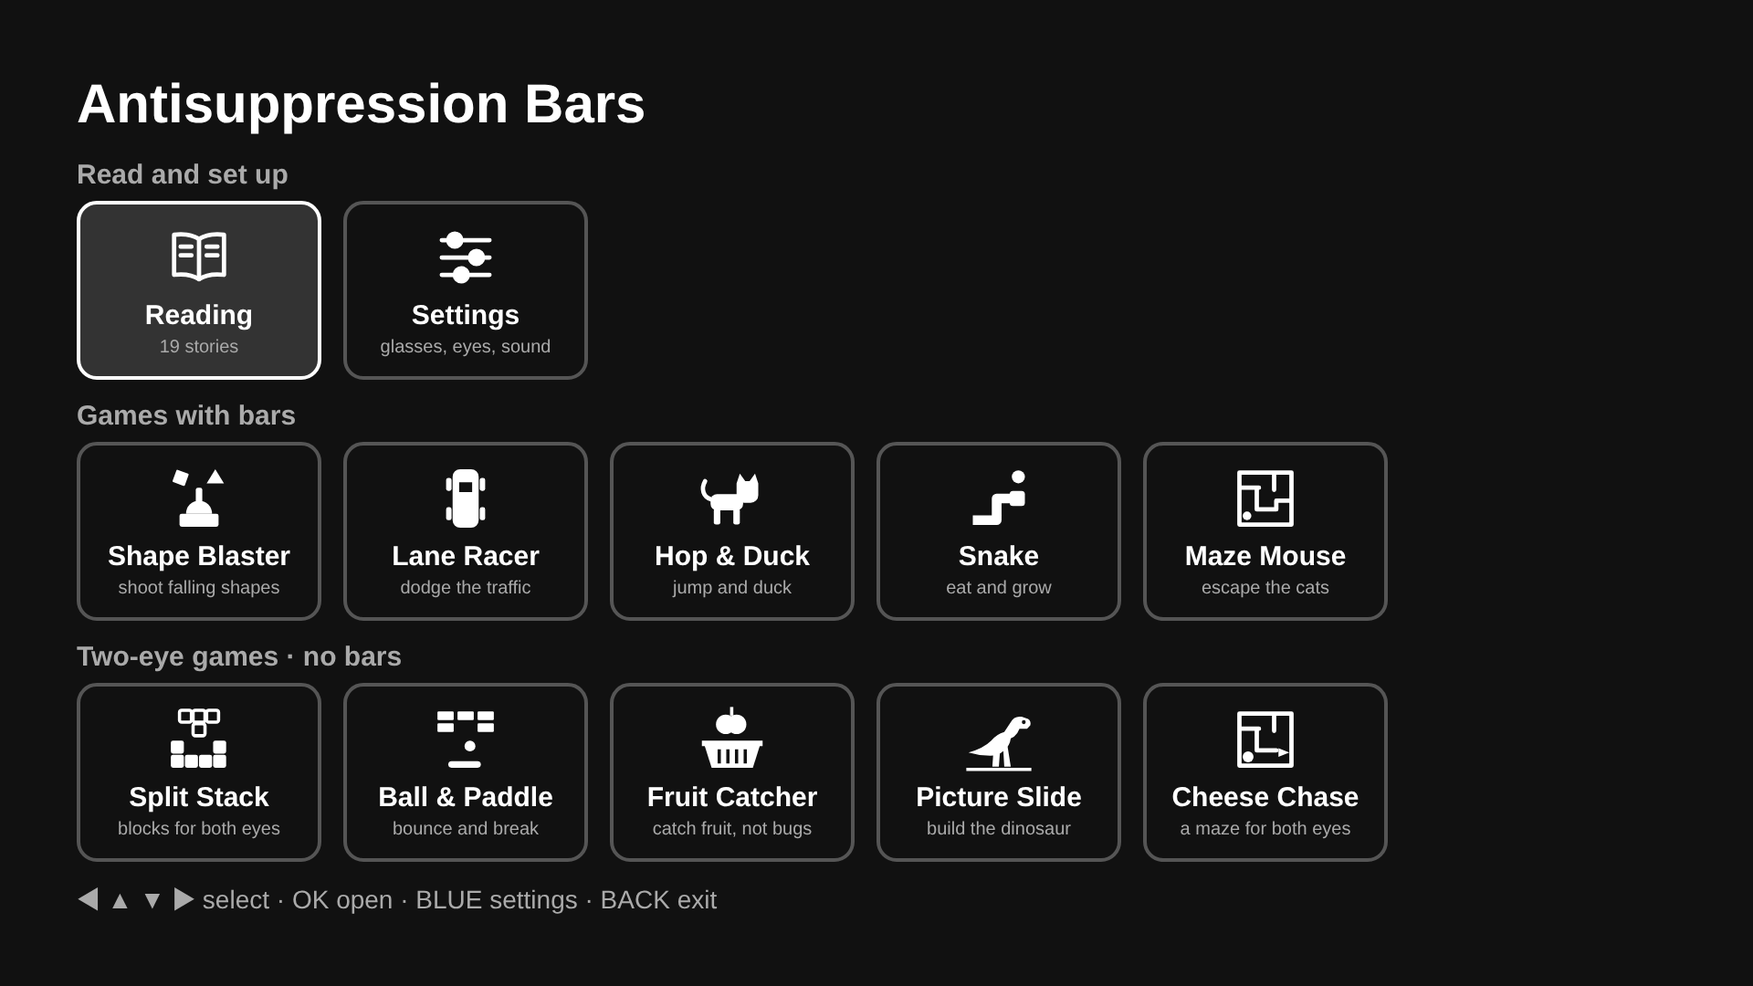
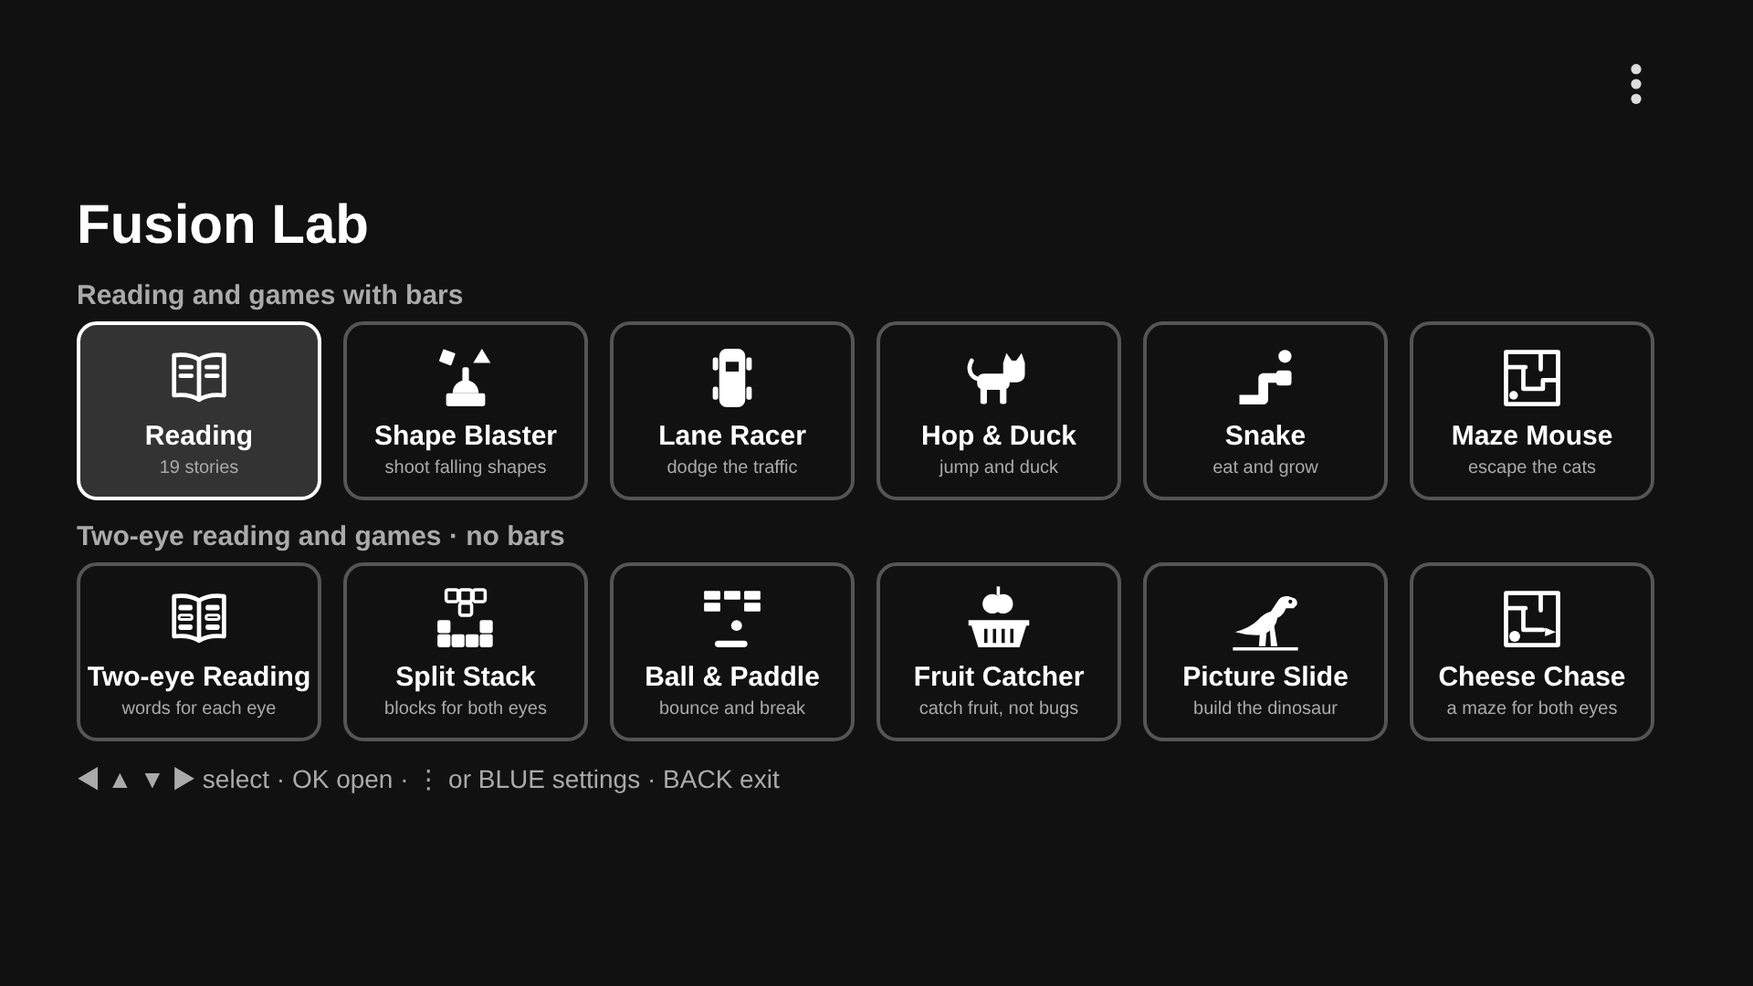
Rename to Fusion Lab; two-row menu with Two-eye Reading; settings behind a ⋮ button
- Reading moves into the 'with bars' row; a new Two-eye Reading (no bars) shows each
  word in the weaker or stronger eye's colour from Settings, taking turns
- Settings tile replaced by a ⋮ button at the top right (▲ from the first row, OK, or click)
- App title, splash and docs renamed to Fusion Lab (app ID unchanged)

Claude-Session: https://claude.ai/code/session_019DAwnqKTqvFo8n4B8RvvjZ

diff --git a/js/app.js b/js/app.js
@@ -16,21 +16,26 @@
   var disclaimer = $('disclaimer'), menuEl = $('menu'), menuList = $('menu-list');
   var reader = $('reader'), canvas = $('game'), gameHint = $('game-hint'), calibEl = $('calib'), libraryEl = $('library');
 
-  // Home menu in three groups: reading & settings, games with bars, two-eye games (no bars)
+  // Home menu in two rows: reading and games with bars; two-eye reading and games (no bars).
+  // Settings opens from the ⋮ button at the top right (menuFocus = SETTINGS_FOCUS).
   var BAR_GAMES = [Blaster, Racer, Runner, Snake, Maze];
   var EYE_GAMES = [SplitStack, Paddle, Fruit, Slide, CheeseChase];
   function gameItem(g) {
     return { label: g.title, icon: MENU_ART[g.id].icon, sub: MENU_ART[g.id].tag, action: function () { startGame(g); } };
   }
   var MENU = [
-    { label: 'Reading', icon: MENU_ART.reading.icon, sub: STORIES.length + ' stories', action: function () { openLibrary(); } },
-    { label: 'Settings', icon: MENU_ART.settings.icon, sub: MENU_ART.settings.tag, action: function () { openPanel(); } }
-  ].concat(BAR_GAMES.map(gameItem), EYE_GAMES.map(gameItem));
+    { label: 'Reading', icon: MENU_ART.reading.icon, sub: STORIES.length + ' stories', action: function () { openLibrary('bars'); } }
+  ].concat(BAR_GAMES.map(gameItem), [
+    { label: 'Two-eye Reading', icon: MENU_ART.reading2.icon, sub: MENU_ART.reading2.tag, action: function () { openLibrary('eyes'); } }
+  ], EYE_GAMES.map(gameItem));
   var MENU_ROWS = [
-    { title: 'Read and set up', items: [0, 1] },
-    { title: 'Games with bars', items: [2, 3, 4, 5, 6] },
-    { title: 'Two-eye games · no bars', items: [7, 8, 9, 10, 11] }
+    { title: 'Reading and games with bars', items: [0, 1, 2, 3, 4, 5] },
+    { title: 'Two-eye reading and games · no bars', items: [6, 7, 8, 9, 10, 11] }
   ];
+  var SETTINGS_FOCUS = -1, lastCol = 0;
+  var moreBtn = $('menu-more');
+  // Reading mode: 'bars' (white text under the bars) or 'eyes' (no bars; each word in one eye's colour)
+  var readingMode = 'bars';
   function menuRowOf(i) {
     for (var r = 0; r < MENU_ROWS.length; r++) {
       var c = MENU_ROWS[r].items.indexOf(i);
@@ -49,6 +54,7 @@
   /* ---------- rendering ---------- */
 
   function renderMenu() {
+    moreBtn.classList.toggle('focused', menuFocus === SETTINGS_FOCUS);
     menuList.innerHTML = MENU_ROWS.map(function (row) {
       return '<li class="menu-head">' + row.title + '</li>' + row.items.map(function (i) {
         var m = MENU[i];
@@ -58,15 +64,28 @@
     }).join('');
   }
 
+  /* Two-eye reading: words take turns between the weaker eye's colour and the stronger eye's
+     colour (the Red and Green / Blue colours from Settings), so both eyes are needed to read a line. */
+  var wordN = 0;
+  function eyeWords(text) {
+    if (readingMode !== 'eyes') return text;
+    var eyes = Settings.eyeColors(s);
+    return text.split(' ').map(function (w) {
+      return '<span style="color:' + (wordN++ % 2 ? eyes.strong : eyes.weak) + '">' + w + '</span>';
+    }).join(' ');
+  }
+
   function renderText() {
     textEl.style.fontSize = s.fontSize + 'px';
     var st = STORIES[storyIdx];
     var ar = st.lang === 'ar';
+    wordN = 0;
     textEl.setAttribute('dir', ar ? 'rtl' : 'ltr');
     textEl.setAttribute('lang', st.lang || 'en');
+    textEl.className = readingMode === 'eyes' ? 'two-eye' : '';
     textEl.innerHTML =
-      '<h2 class="story-title"><span class="story-icon">' + (STORY_ART[st.icon] || '') + '</span>' + st.title + '</h2>' +
-      st.paragraphs.map(function (p) { return '<p>' + p + '</p>'; }).join('') +
+      '<h2 class="story-title"><span class="story-icon">' + (STORY_ART[st.icon] || '') + '</span>' + eyeWords(st.title) + '</h2>' +
+      st.paragraphs.map(function (p) { return '<p>' + eyeWords(p) + '</p>'; }).join('') +
       '<p class="story-end" dir="ltr">◀ ▶ story ' + (storyIdx + 1) + ' of ' + STORIES.length +
       '  ·  ' + LANG_NAMES[st.lang || 'en'] + '</p>';
   }
@@ -135,14 +154,15 @@
   function updateBars() {
     var plain = screen === 'menu' || screen === 'library';
     // Two-eye games draw their own colours for each eye, so the bars are not used there
-    var twoEye = screen === 'game' && currentGame && currentGame.dichoptic;
+    var twoEye = (screen === 'game' && currentGame && currentGame.dichoptic) || (screen === 'reader' && readingMode === 'eyes');
     barsEl.classList.toggle('hidden', (plain && !panelOpen()) || screen === 'calib' || twoEye);
   }
 
   // Story list (no bars); picking a story opens it in the reader
-  function openLibrary() {
+  function openLibrary(mode) {
+    if (mode) readingMode = mode;
     show('library');
-    Library.open(libraryEl, storyIdx, function (i) {
+    Library.open(libraryEl, storyIdx, readingMode === 'eyes' ? 'Two-eye reading · choose a story' : 'Choose a story', function (i) {
       storyIdx = i;
       renderText();
       scrollY = 0;
@@ -205,16 +225,26 @@
     if (screen === 'library') { Library.key(k); return; }
 
     if (screen === 'menu') {
-      // Three rows of tiles: LEFT/RIGHT move within a row, UP/DOWN move between rows
-      var pos = menuRowOf(menuFocus), row = MENU_ROWS[pos.r].items;
-      if (k === KEY.LEFT) menuFocus = row[(pos.c - 1 + row.length) % row.length];
-      if (k === KEY.RIGHT) menuFocus = row[(pos.c + 1) % row.length];
-      if (k === KEY.UP || k === KEY.DOWN) {
-        var next = MENU_ROWS[(pos.r + (k === KEY.DOWN ? 1 : -1) + MENU_ROWS.length) % MENU_ROWS.length].items;
-        menuFocus = next[Math.min(pos.c, next.length - 1)];
+      // Rows of tiles: LEFT/RIGHT move within a row, UP/DOWN move between rows;
+      // UP from the first row reaches the ⋮ settings button at the top right
+      if (menuFocus === SETTINGS_FOCUS) {
+        if (k === KEY.DOWN) menuFocus = MENU_ROWS[0].items[Math.min(lastCol, MENU_ROWS[0].items.length - 1)];
+      } else {
+        var pos = menuRowOf(menuFocus), row = MENU_ROWS[pos.r].items;
+        if (k === KEY.LEFT) menuFocus = row[(pos.c - 1 + row.length) % row.length];
+        if (k === KEY.RIGHT) menuFocus = row[(pos.c + 1) % row.length];
+        if (k === KEY.UP && pos.r === 0) { lastCol = pos.c; menuFocus = SETTINGS_FOCUS; }
+        else if (k === KEY.UP || k === KEY.DOWN) {
+          var next = MENU_ROWS[Math.min(MENU_ROWS.length - 1, Math.max(0, pos.r + (k === KEY.DOWN ? 1 : -1)))].items;
+          menuFocus = next[Math.min(pos.c, next.length - 1)];
+        }
       }
       if (k >= KEY.LEFT && k <= KEY.DOWN) Sound.play('nav');
-      if (k === KEY.ENTER) { Sound.play('select'); MENU[menuFocus].action(); return; }
+      if (k === KEY.ENTER) {
+        Sound.play('select');
+        if (menuFocus === SETTINGS_FOCUS) openPanel(); else MENU[menuFocus].action();
+        return;
+      }
       if (k === KEY.BACK && window.webOS && webOS.platformBack) webOS.platformBack();
       renderMenu();
       return;
@@ -227,8 +257,8 @@
       if (k === KEY.UP) scroll(-120);
       if (k === KEY.LEFT) changeStory(-1);
       if (k === KEY.RIGHT) changeStory(1);
-      if (k === KEY.RED) { Settings.cycle(s, 'orientation', 1); apply(); }
-      if (k === KEY.GREEN) { Settings.cycle(s, 'barSize', 1); apply(); }
+      if (k === KEY.RED && readingMode === 'bars') { Settings.cycle(s, 'orientation', 1); apply(); }
+      if (k === KEY.GREEN && readingMode === 'bars') { Settings.cycle(s, 'barSize', 1); apply(); }
       return;
     }
 
@@ -242,6 +272,10 @@
 
   // Pause games when the app goes to the background
   document.addEventListener('visibilitychange', function () { if (document.hidden) Engine.pause(true); });
+
+  // The ⋮ button never keeps keyboard focus, so OK / Enter is always handled by the key handler
+  moreBtn.addEventListener('mousedown', function (e) { e.preventDefault(); });
+  moreBtn.addEventListener('click', function () { moreBtn.blur(); Sound.play('select'); openPanel(); });
 
   apply();
   show('menu');

diff --git a/docs/privacy-policy.html b/docs/privacy-policy.html
@@ -1,4 +1,4 @@
-<title>Antisuppression Bars Privacy Policy</title>
+<title>Fusion Lab Privacy Policy</title>
 <link rel="preconnect" href="https://fonts.googleapis.com">
 <link rel="stylesheet" href="https://fonts.googleapis.com/css2?family=Fraunces:opsz,wght@9..144,600&family=Source+Sans+3:wght@400;600&display=swap">
 <style>
@@ -64,8 +64,8 @@ footer { margin-top: 48px; color: var(--muted); font-size: 0.9rem; }
 
 <main>
   <div class="bars" aria-hidden="true"></div>
-  <h1>Antisuppression Bars Privacy Policy</h1>
-  <p class="meta">For the LG webOS TV app “Antisuppression Bars” · Effective 11 October 2026</p>
+  <h1>Fusion Lab Privacy Policy</h1>
+  <p class="meta">For the LG webOS TV app “Fusion Lab” · Effective 11 October 2026</p>
 
   <p class="summary"><strong>In short:</strong> the app does not collect, send or share any personal data. Everything it remembers stays on your TV.</p>
 
@@ -94,13 +94,13 @@ footer { margin-top: 48px; color: var(--muted); font-size: 0.9rem; }
   <p>The app is suitable for children using it with a parent or eye-care professional. Because it collects no personal data, it collects none from children.</p>
 
   <h2>Medical notice</h2>
-  <p>Antisuppression Bars is a supplement to vision therapy prescribed by an optometrist or ophthalmologist. It is not a medical device and does not diagnose or treat any condition.</p>
+  <p>Fusion Lab is a supplement to vision therapy prescribed by an optometrist or ophthalmologist. It is not a medical device and does not diagnose or treat any condition.</p>
 
   <h2>LG services</h2>
-  <p>Downloading and running apps on your TV is handled by LG’s own platform and LG Content Store, which have their own privacy policies. This policy covers only the Antisuppression Bars app.</p>
+  <p>Downloading and running apps on your TV is handled by LG’s own platform and LG Content Store, which have their own privacy policies. This policy covers only the Fusion Lab app.</p>
 
   <h2>Changes and contact</h2>
   <p>If this policy changes, the new version will be posted on this page with a new effective date. For questions, use the developer contact listed on the app’s page in LG Content Store.</p>
 
-  <footer>© 2026 Zouhair. Antisuppression Bars for LG webOS TV.</footer>
+  <footer>© 2026 Zouhair. Fusion Lab for LG webOS TV.</footer>
 </main>

diff --git a/js/menu-art.js b/js/menu-art.js
@@ -13,6 +13,15 @@ var MENU_ART = (function () {
         '<path d="M32 15v37M15 22h10M15 30h10M39 22h10M39 30h10"/>',
         'fill="none" stroke="currentColor" stroke-width="4" stroke-linecap="round" stroke-linejoin="round"')
     },
+    reading2: {
+      tag: 'words for each eye',
+      icon: svg('<g fill="none" stroke="currentColor" stroke-width="4" stroke-linecap="round" stroke-linejoin="round">' +
+        '<path d="M32 15c-6-4-14-5-23-4v37c9-1 17 0 23 4 6-4 14-5 23-4V11c-9-1-17 0-23 4zM32 15v37"/></g>' +
+        '<rect x="13" y="19" width="13" height="5" rx="2"/><rect x="38" y="19" width="13" height="5" rx="2"/>' +
+        '<g fill="none" stroke="currentColor" stroke-width="2.5"><rect x="13.5" y="28.5" width="12" height="4" rx="2"/>' +
+        '<rect x="38.5" y="28.5" width="12" height="4" rx="2"/></g>' +
+        '<rect x="13" y="37" width="13" height="5" rx="2"/><rect x="38" y="37" width="13" height="5" rx="2"/>')
+    },
     blaster: {
       tag: 'shoot falling shapes',
       icon: svg('<rect x="14" y="46" width="36" height="12" rx="2"/><path d="M20 46a12 12 0 0 1 24 0z"/>' +

diff --git a/js/library.js b/js/library.js
@@ -6,10 +6,10 @@ var Library = (function () {
   var KEY = { LEFT: 37, UP: 38, RIGHT: 39, DOWN: 40, ENTER: 13, BACK: 461 };
   var COLS = 5;
   var LANG = { en: 'English', fr: 'Français', ar: 'العربية' };
-  var root, focus = 0, onPick, onBack, bound = false;
+  var root, focus = 0, onPick, onBack, bound = false, heading = 'Choose a story';
 
   function render() {
-    var html = '<h1>Choose a story</h1><ul class="lib-grid">';
+    var html = '<h1>' + heading + '</h1><ul class="lib-grid">';
     STORIES.forEach(function (st, i) {
       var lang = st.lang || 'en';
       html += '<li data-i="' + i + '" class="' + (i === focus ? 'focused' : '') + '">' +
@@ -32,7 +32,8 @@ var Library = (function () {
     if (k === KEY.BACK) onBack();
   }
 
-  function open(container, startIdx, pick, back) {
+  function open(container, startIdx, title, pick, back) {
+    heading = title || 'Choose a story';
     root = container; focus = startIdx || 0; onPick = pick; onBack = back;
     if (!bound) {                       // mouse, touch and Magic Remote pointer
       bound = true;

diff --git a/index.html b/index.html
@@ -2,15 +2,16 @@
 <html lang="en">
 <head>
   <meta charset="utf-8">
-  <title>Antisuppression Bars</title>
+  <title>Fusion Lab</title>
   <link rel="stylesheet" href="css/app.css">
 </head>
 <body>
   <!-- Home menu -->
   <section id="menu" class="screen">
-    <h1 class="title">Antisuppression Bars</h1>
+    <h1 class="title">Fusion Lab</h1>
+    <button id="menu-more" type="button" tabindex="-1" aria-label="Settings" title="Settings"><svg viewBox="0 0 24 24" aria-hidden="true" fill="currentColor"><circle cx="12" cy="5" r="2.4"/><circle cx="12" cy="12" r="2.4"/><circle cx="12" cy="19" r="2.4"/></svg></button>
     <ul id="menu-list"></ul>
-    <p class="hint">◀ ▲ ▼ ▶ select · OK open · BLUE settings · BACK exit</p>
+    <p class="hint">◀ ▲ ▼ ▶ select · OK open · ⋮ or BLUE settings · BACK exit</p>
   </section>
 
   <!-- Reading content shown under the bars -->

diff --git a/css/app.css b/css/app.css
@@ -113,6 +113,17 @@ h1 { font-size: 48px; margin-bottom: 32px; }
 #menu-list li.focused { border-color: #fff; background: #333; }
 #menu .hint { font-size: 28px; margin-top: 24px; width: 1752px; text-align: left; }
 
+/* Settings: only a ⋮ button at the top right of the home menu */
+#menu-more {
+  position: absolute; top: 48px; right: 84px; width: 88px; height: 88px;
+  border: 4px solid transparent; border-radius: 50%; background: none; color: #ddd;
+  display: flex; align-items: center; justify-content: center; padding: 0; cursor: pointer;
+}
+#menu-more svg { width: 56px; height: 56px; display: block; }
+#menu-more.focused { border-color: #fff; background: #333; color: #fff; }
+/* Two-eye reading: no bars; words are coloured per eye in app.js */
+#text.two-eye .story-end { color: #888; }
+
 /* Game canvas */
 #game { position: absolute; inset: 0; }
 #game-hint {

diff --git a/docs/UX_SCENARIO.md b/docs/UX_SCENARIO.md
@@ -1,10 +1,10 @@
-# UX Scenario — Antisuppression Bars
+# UX Scenario — Fusion Lab
 
 Copy these steps into the UX scenario template downloaded from LG Seller Lounge.
 
 | Item | Value |
 |---|---|
-| App name | Antisuppression Bars |
+| App name | Fusion Lab |
 | App ID | com.zouhair.antisuppressionbars |
 | Version | 0.1.0 |
 | Resolution | 1920 × 1080 |
@@ -16,17 +16,17 @@ Copy these steps into the UX scenario template downloaded from LG Seller Lounge.
 
 ## 1. First launch
 1. Launch the app from the Home launcher. The splash screen appears, then the **"Before you start"** notice.
-2. Press **OK**. The notice closes and the **home menu** appears: twelve tiles with an icon and a short description, in three labelled rows:
-   - **Read and set up**: Reading, Settings
-   - **Games with bars**: Shape Blaster, Lane Racer, Hop & Duck, Snake, Maze Mouse
-   - **Two-eye games · no bars**: Split Stack, Ball & Paddle, Fruit Catcher, Picture Slide, Cheese Chase
-3. The home menu is shown without bars so it is easy to read. Vertical red and green bars cover the screen in Reading and in every game; this is the core function of the app.
+2. Press **OK**. The notice closes and the **home menu** appears: the title **Fusion Lab**, a **⋮** (settings) button at the top right, and twelve tiles with an icon and a short description, in two labelled rows:
+   - **Reading and games with bars**: Reading, Shape Blaster, Lane Racer, Hop & Duck, Snake, Maze Mouse
+   - **Two-eye reading and games · no bars**: Two-eye Reading, Split Stack, Ball & Paddle, Fruit Catcher, Picture Slide, Cheese Chase
+3. The home menu is shown without bars so it is easy to read. Vertical red and green bars cover the screen in Reading and in the games of the first row; this is the core function of the app.
 4. Relaunch the app: the notice is not shown again.
 
 ## 2. Home menu
-1. Press **◀ / ▶** to move the highlight within a row, and **▲ / ▼** to move between the three rows.
-2. Press **OK** to open the highlighted item.
-3. Press **BACK** on the home menu to exit the app.
+1. Press **◀ / ▶** to move the highlight within a row, and **▲ / ▼** to move between the two rows.
+2. Press **▲** on the first row to highlight the **⋮** button at the top right; **OK** opens Settings, **▼** returns to the tiles. (**BLUE** also opens Settings from anywhere; with the Magic Remote pointer, click ⋮.)
+3. Press **OK** to open the highlighted item.
+4. Press **BACK** on the home menu to exit the app.
 
 ## 3. Reading
 1. Select **Reading**. The **story list** appears (without bars): 19 tiles, each with a drawing of the story's subject, its title and its language — 12 in English, 4 in French, 3 in Arabic.
@@ -39,7 +39,12 @@ Copy these steps into the UX scenario template downloaded from LG Seller Lounge.
 6. Press **OK** to open Settings; press **OK** or **BACK** to close it.
 7. Press **BACK** to return to the story list.
 
-## 4. Settings panel (available from anywhere with BLUE, or from the menu)
+## 3a. Two-eye Reading (no bars)
+1. Select **Two-eye Reading**. The same story list appears, titled "Two-eye reading · choose a story".
+2. The story opens **without bars**. Its words take turns between the weaker eye's colour and the stronger eye's colour (the **Red colour** and **Green colour** or **Blue colour** from Settings, chosen by **Weaker eye**; the stronger eye's words are dimmed by **Strong-eye contrast**), so each eye sees only every other word.
+3. Scrolling, changing story, Settings and BACK work as in Reading. RED and GREEN do nothing here (there are no bars).
+
+## 4. Settings panel (the ⋮ button on the home menu, or BLUE from anywhere)
 1. Press **▲ / ▼** to choose a setting: Glasses, Orientation, Bar width, Bar strength, Red colour, Green colour (or Blue colour), Colour test, Weaker eye, Strong-eye contrast, Text size, Music, Sound effects.
    - **Glasses** switches between red / green and red / blue. With red / blue, the bars become red and blue and the Green shade row is replaced by Blue shade.
    - Each colour row shows a swatch and its value; **◀ / ▶** steps through preset colours. The defaults are red #9B1819 and green #1A9B1C at 100% bar strength.

diff --git a/docs/STORE_LISTING.md b/docs/STORE_LISTING.md
@@ -3,7 +3,7 @@
 ## Basic info
 | Field | Value |
 |---|---|
-| App title | Antisuppression Bars |
+| App title | Fusion Lab |
 | App ID | com.zouhair.antisuppressionbars |
 | Version | 0.1.0 |
 | Category | Education (alternative: Health & Fitness / Lifestyle) |
@@ -15,15 +15,15 @@
 | Privacy policy URL | https://visiorich.odidz.com/privacy |
 
 ## Short description
-Red-green reading bars, 19 stories and 10 games for at-home binocular vision exercises with bichrome glasses.
+Red-green reading bars, 19 stories, two-eye reading and 10 games for at-home binocular vision exercises with bichrome glasses.
 
 ## Full description
-Antisuppression Bars brings red-green reading bars to your LG TV for at-home vision exercises recommended by eye-care professionals.
+Fusion Lab brings red-green reading bars to your LG TV for at-home vision exercises recommended by eye-care professionals.
 
 Put on red-green (bichrome) glasses and the bars cover the screen. Each eye sees only part of the picture through its filter, so you need both eyes working together to read the text and follow the action.
 
 What's inside:
-• Reading: 19 original short stories, many of them funny stories for kids, each with its own picture: 12 in English, 4 in French and 3 in Arabic, with adjustable text size
+• Reading: 19 original short stories, many of them funny stories for kids, each with its own picture: 12 in English, 4 in French and 3 in Arabic, with adjustable text size. Read them under the bars, or in Two-eye Reading, where the words take turns between the two lens colours
 • Shape Blaster: move the cannon and shoot falling shapes before they land
 • Lane Racer: switch lanes to dodge traffic on an endless road
 • Hop & Duck: help a running cat jump over blocks, duck under birds and collect stars
@@ -50,7 +50,7 @@ The app works offline, has no ads, and collects no personal data. Settings and b
 Important: this app is a supplement to vision therapy prescribed by an optometrist or ophthalmologist. It is not a medical device and does not diagnose or treat any condition. Turn off any TV picture modes that change colours (such as eye-comfort or blue-light filters) before use.
 
 ## Keywords
-vision, eye exercise, binocular, bichrome, red green glasses, red blue glasses, reading bars, vision therapy, eye games, kids stories, histoires pour enfants
+fusion lab, vision, eye exercise, binocular, bichrome, red green glasses, red blue glasses, reading bars, vision therapy, eye games, kids stories, histoires pour enfants
 
 ## Images
 | Asset | File |

diff --git a/README.md b/README.md
@@ -1,4 +1,4 @@
-# Antisuppression Bars — LG webOS TV app
+# Fusion Lab — LG webOS TV app
 
 Red/green reading bars for at-home antisuppression vision therapy (amblyopia / lazy eye),
 used with bichrome (red-green) or red-blue glasses. Inspired by the
@@ -27,7 +27,9 @@ each eye sees only part of each object, encouraging both eyes to work together.
 | **Picture Slide** *(two-eye)* — sliding dinosaur puzzle: some parts of each dinosaur for the weaker eye, the rest for the stronger eye | ◀ ▲ ▼ ▶ slide |
 | **Cheese Chase** *(two-eye)* — maze chase: mouse and crumbs for the weaker eye, walls and cats for the stronger eye | ◀ ▲ ▼ ▶ move |
 
-The home menu groups the tiles in three rows: Read and set up · Games with bars · Two-eye games (no bars).
+The home menu has two rows: **Reading and games with bars** (Reading + five games) and **Two-eye reading and games · no bars** (Two-eye Reading + five games). Settings opens from the **⋮** button at the top right (▲ from the first row, or BLUE).
+
+**Two-eye Reading** shows the same stories without bars; the words take turns between the weaker eye's colour and the stronger eye's colour, so each eye sees every other word.
 
 Two-eye games switch the bars off and draw each part in one eye's colour instead, using the
 Red / Green (or Blue) colours from Settings, **Settings → Weaker eye** and **Settings → Strong-eye contrast**.
@@ -67,6 +69,7 @@ docs/            store submission notes
 | BACK | exit app | back to story list | close settings |
 | RED | — | toggle horizontal/vertical | — |
 | GREEN | — | next bar width | — |
+| ▲ (first row) | ⋮ settings button | — | — |
 | BLUE | settings | settings | close settings |
 
 Game controls are listed above. The full tester walkthrough is in
